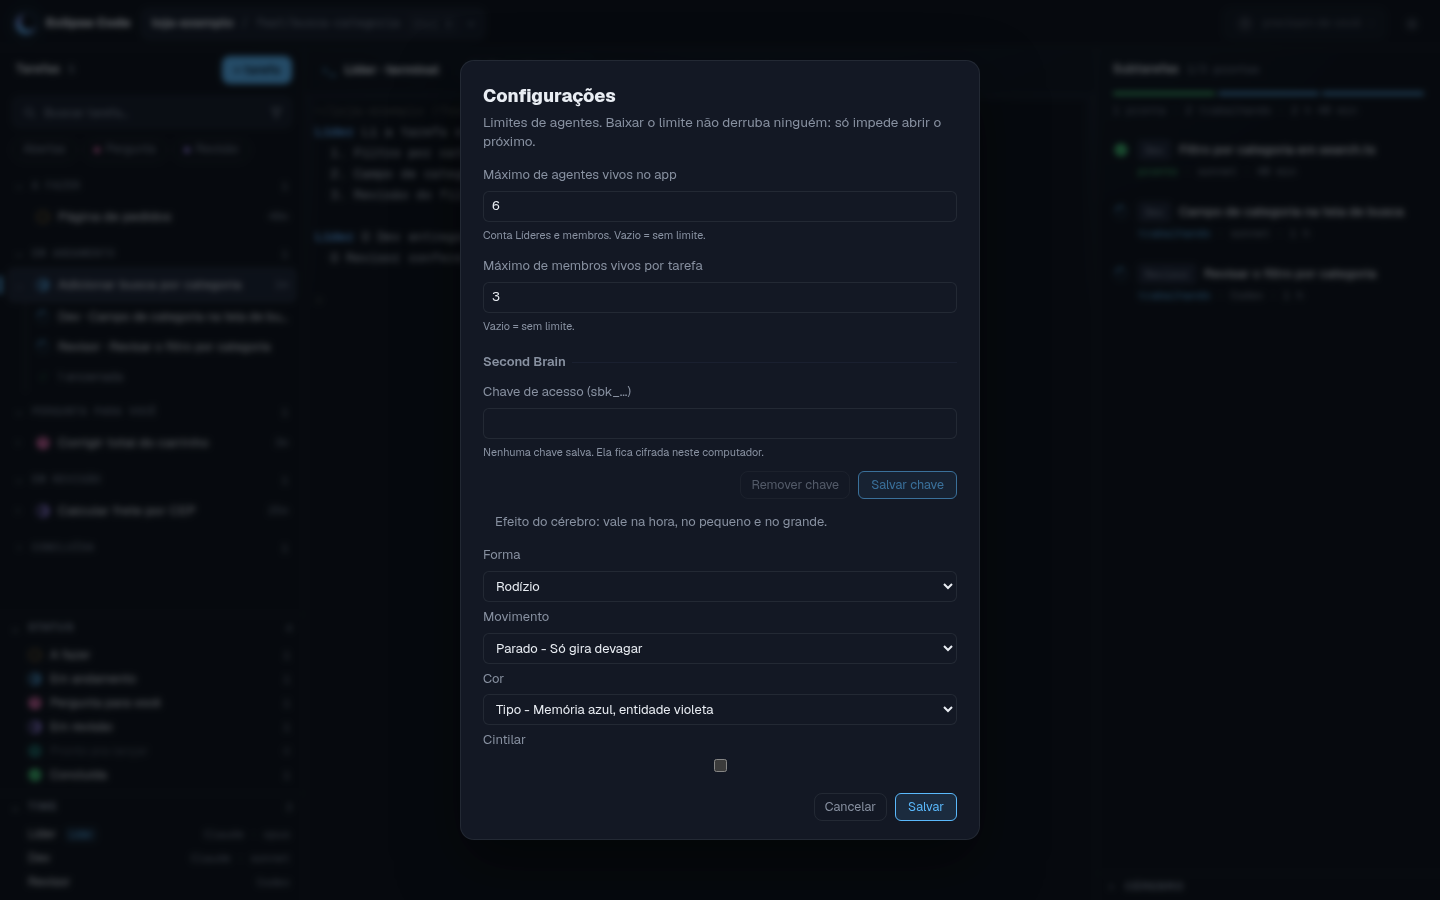
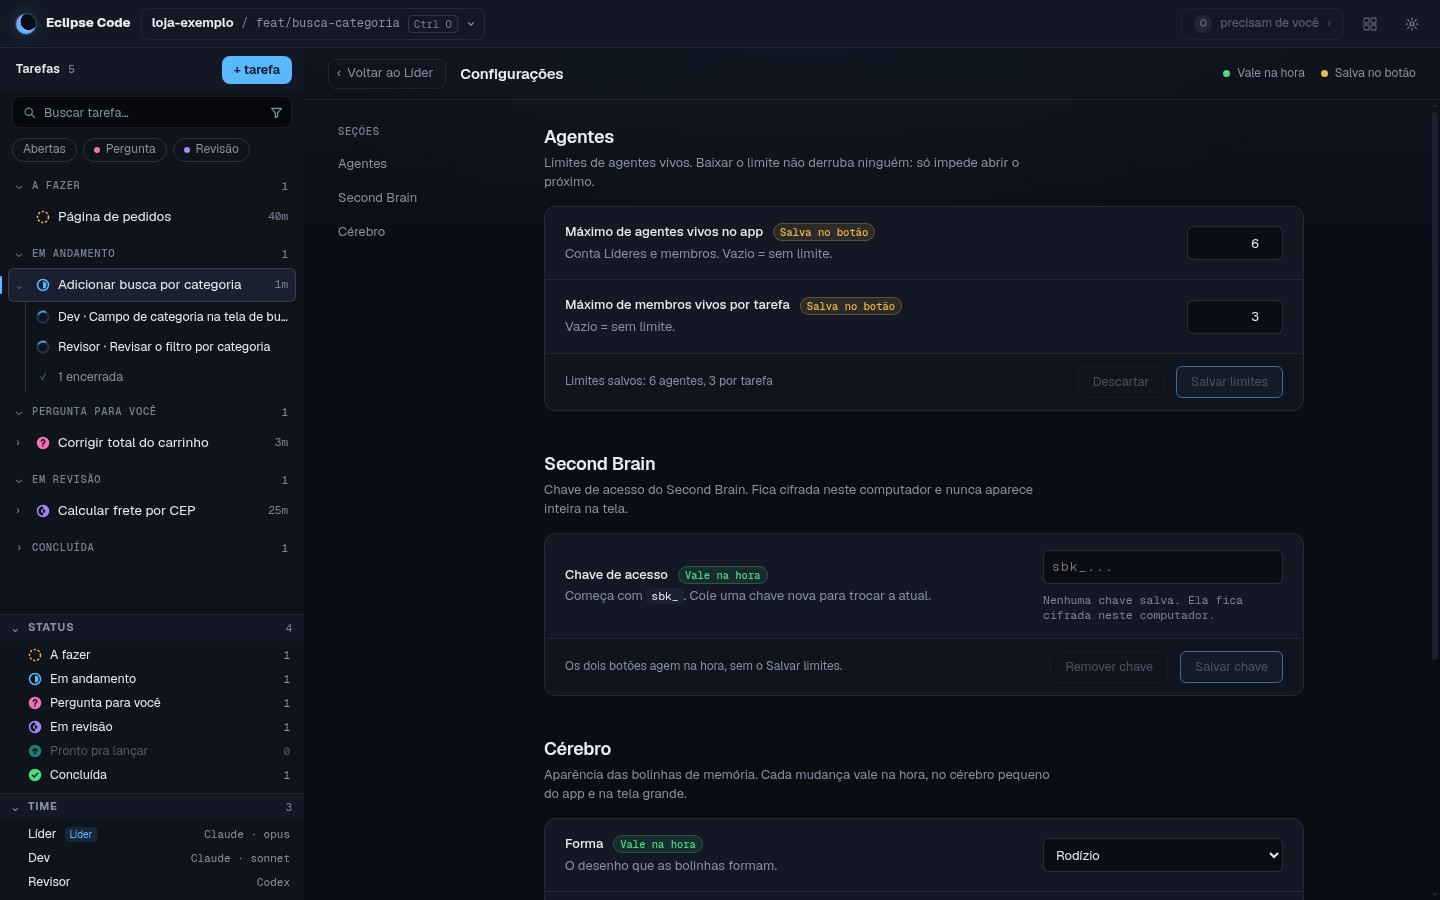
docs: README com Parede, Configuracoes em pagina, avisos ao Lider e Windows
- Secao "Tambem ha" com as features novas; build:win como experimental.
- Print novo da Parede e prints refeitos (Configuracoes agora e pagina).
- Script de prints ganhou a cena da Parede com dados falsos.

diff --git a/README.md b/README.md
@@ -59,11 +59,23 @@ A tarefa passa por 6 status. O app move sozinho os 4 primeiros. Só você marca 
 
 Também há:
 
-- **Configurações**, com o limite de agentes ao mesmo tempo (no total e por tarefa).
-- **Cérebro**, um plugin opcional que mostra a memória do
-  second-brain como um grafo.
+- **Parede**: um painel com as tarefas abertas de todos os projetos, as linhas mudadas em
+  cada uma, quantos agentes estão trabalhando e o log da sessão. Abra pelo botão "Parede"
+  do topo.
+- **Configurações**: uma página no lugar do terminal, com o limite de agentes ao mesmo tempo
+  (no total e por tarefa) e a chave do Cérebro. Abra pelo botão "Configurações" do topo.
+- **Cérebro**: um plugin opcional que mostra a memória do second-brain como um grafo.
+- **Avisos ao Líder sem atrapalhar você**: quando um membro termina, o Líder Claude recebe o
+  aviso por um gancho (hook) do Claude Code. O app não digita no terminal, então o que você
+  está escrevendo para o Líder não se mistura com o aviso.
+- **Atualização automática** com a janela "Novidades da versão". Veja
+  [Atualização automática](#atualização-automática).
 
 ### Telas
+
+**Parede.** As tarefas abertas de todos os projetos, as linhas mudadas e o que cada membro faz agora.
+
+![Parede com o total de linhas, os números do dia e os cartões das tarefas abertas](docs/screenshots/parede.png)
 
 **Pergunta do Líder.** A pergunta aparece embaixo do terminal, com as opções e o custo de cada uma.
 
@@ -77,9 +89,9 @@ Também há:
 
 ![Janela Novidades da versão 0.2.0 com três itens](docs/screenshots/novidades.png)
 
-**Configurações.** Aqui você define o limite de agentes ao mesmo tempo e a chave do Cérebro.
+**Configurações.** Uma página no lugar do terminal. Aqui você define o limite de agentes, a chave do second-brain e a aparência do Cérebro.
 
-![Tela de Configurações com os limites de agentes](docs/screenshots/configuracoes.png)
+![Página de Configurações com os limites de agentes, a chave do second-brain e o Cérebro](docs/screenshots/configuracoes.png)
 
 ## Instalar
 
@@ -143,7 +155,11 @@ pnpm typecheck
 pnpm lint
 pnpm test        # vitest dentro do Electron; precisa de display
 pnpm build
+pnpm build:win   # instalador NSIS para Windows x64, gerado no Linux (experimental)
 ```
+
+O suporte a Windows é experimental. O release oficial e a atualização automática são só para
+Linux.
 
 Estrutura:
 
